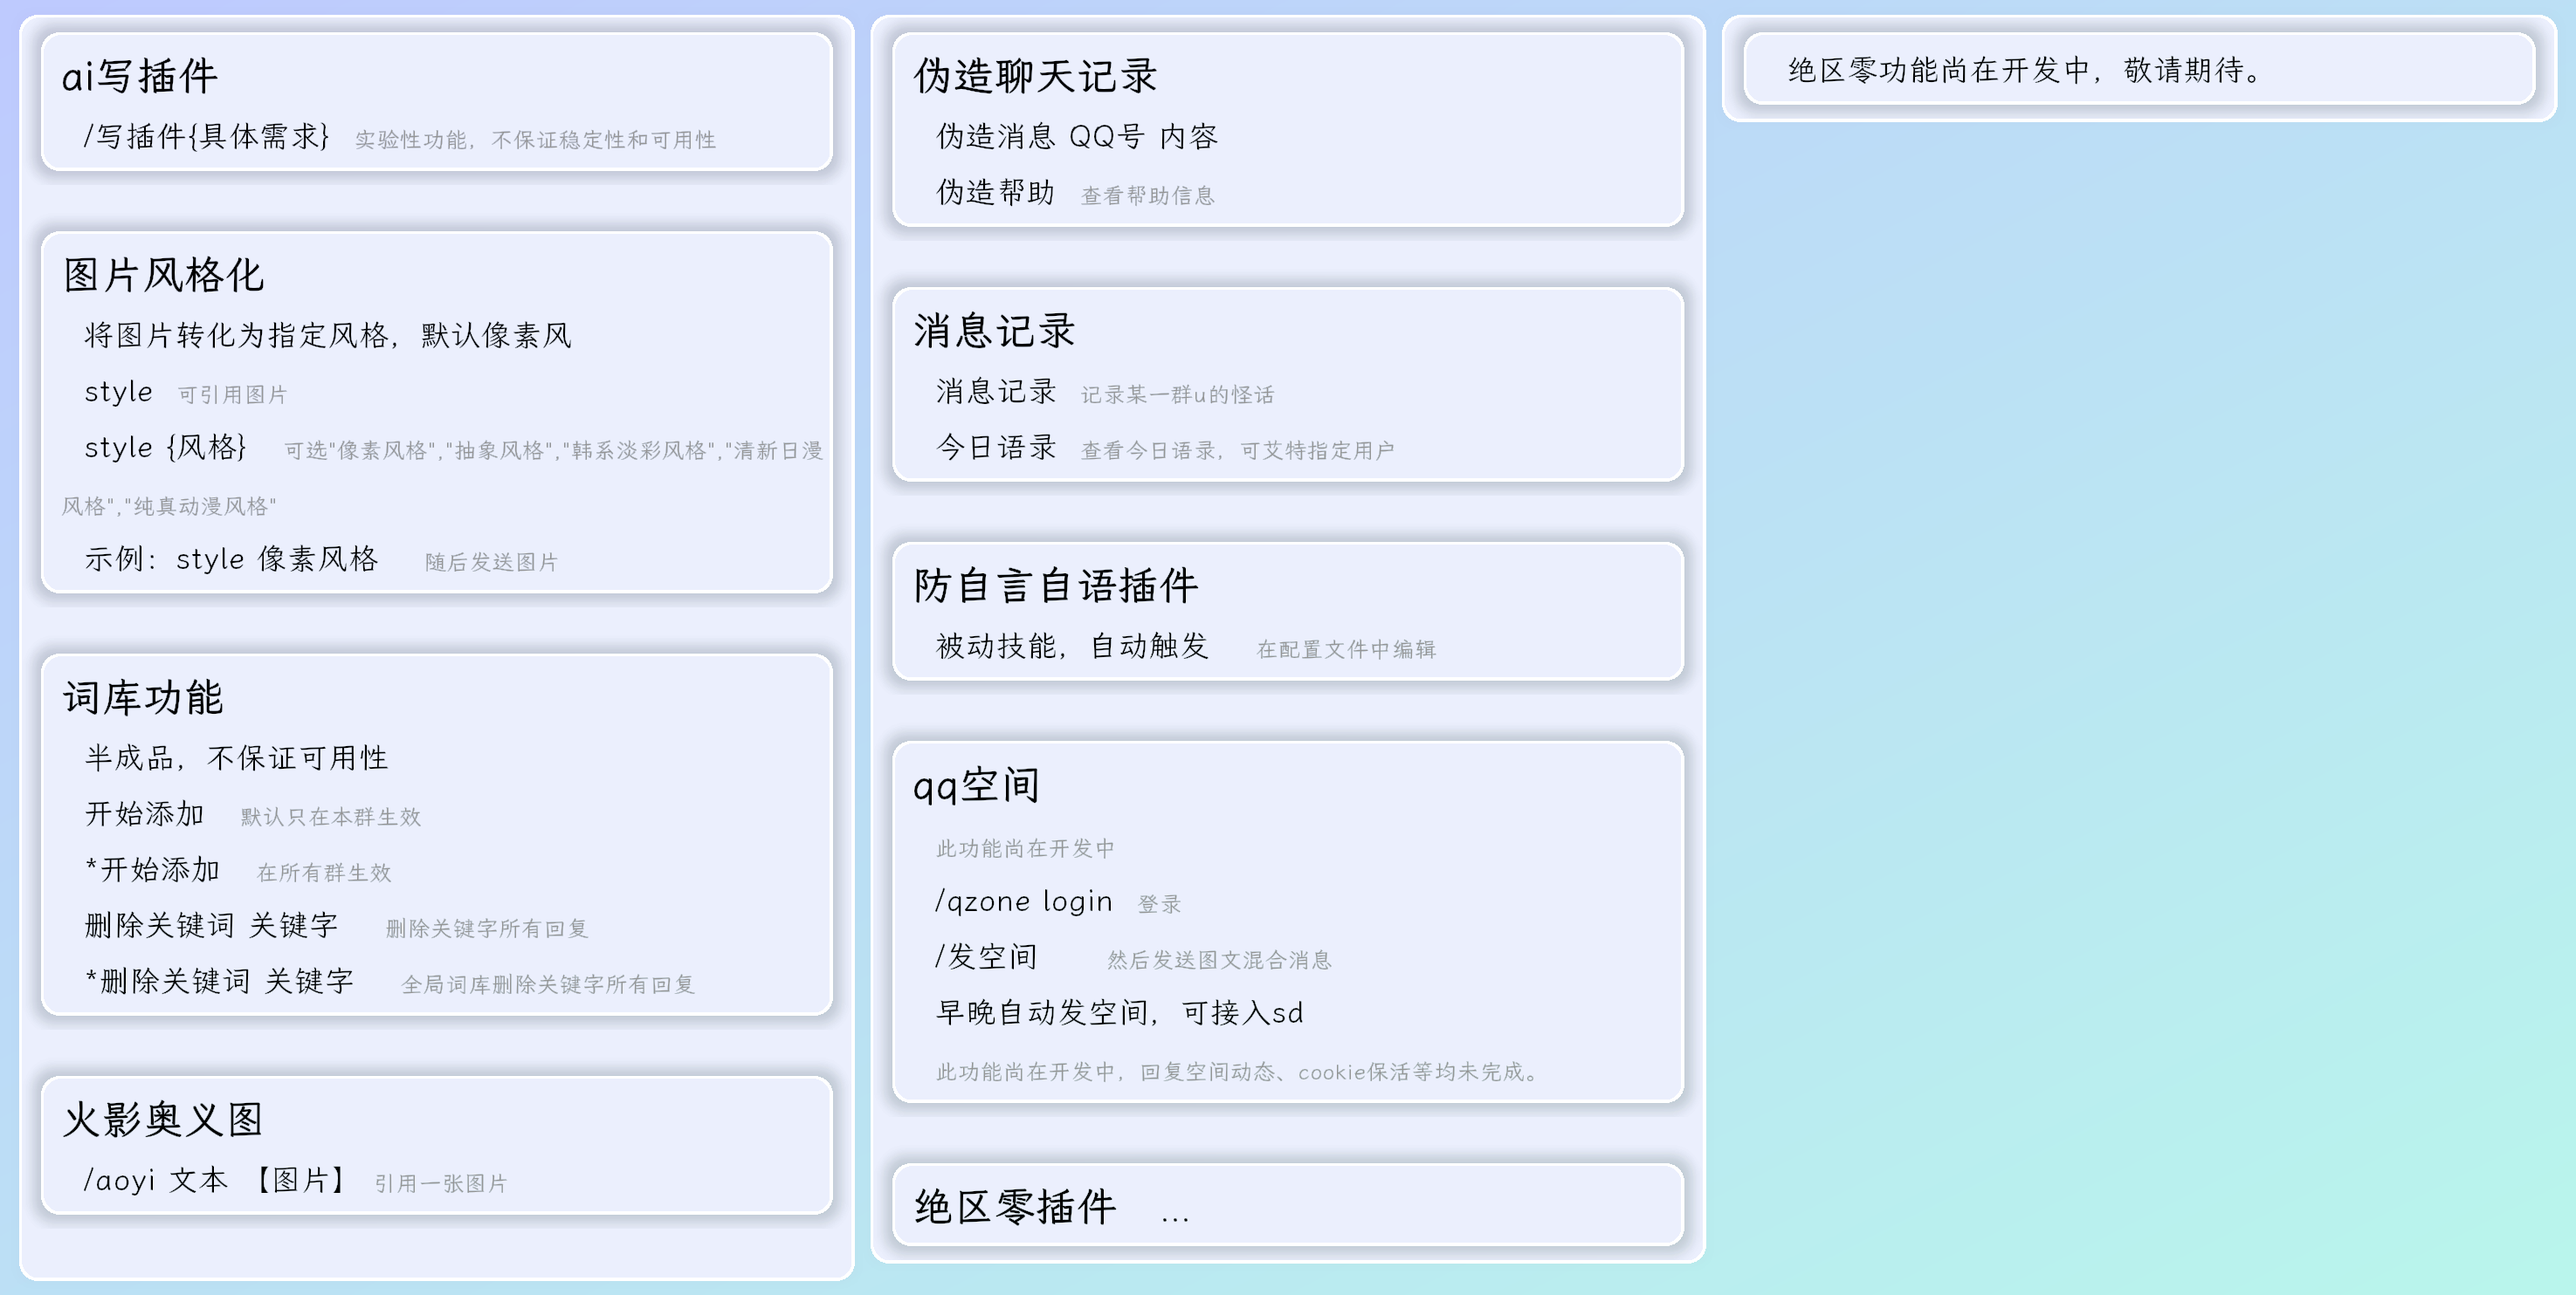
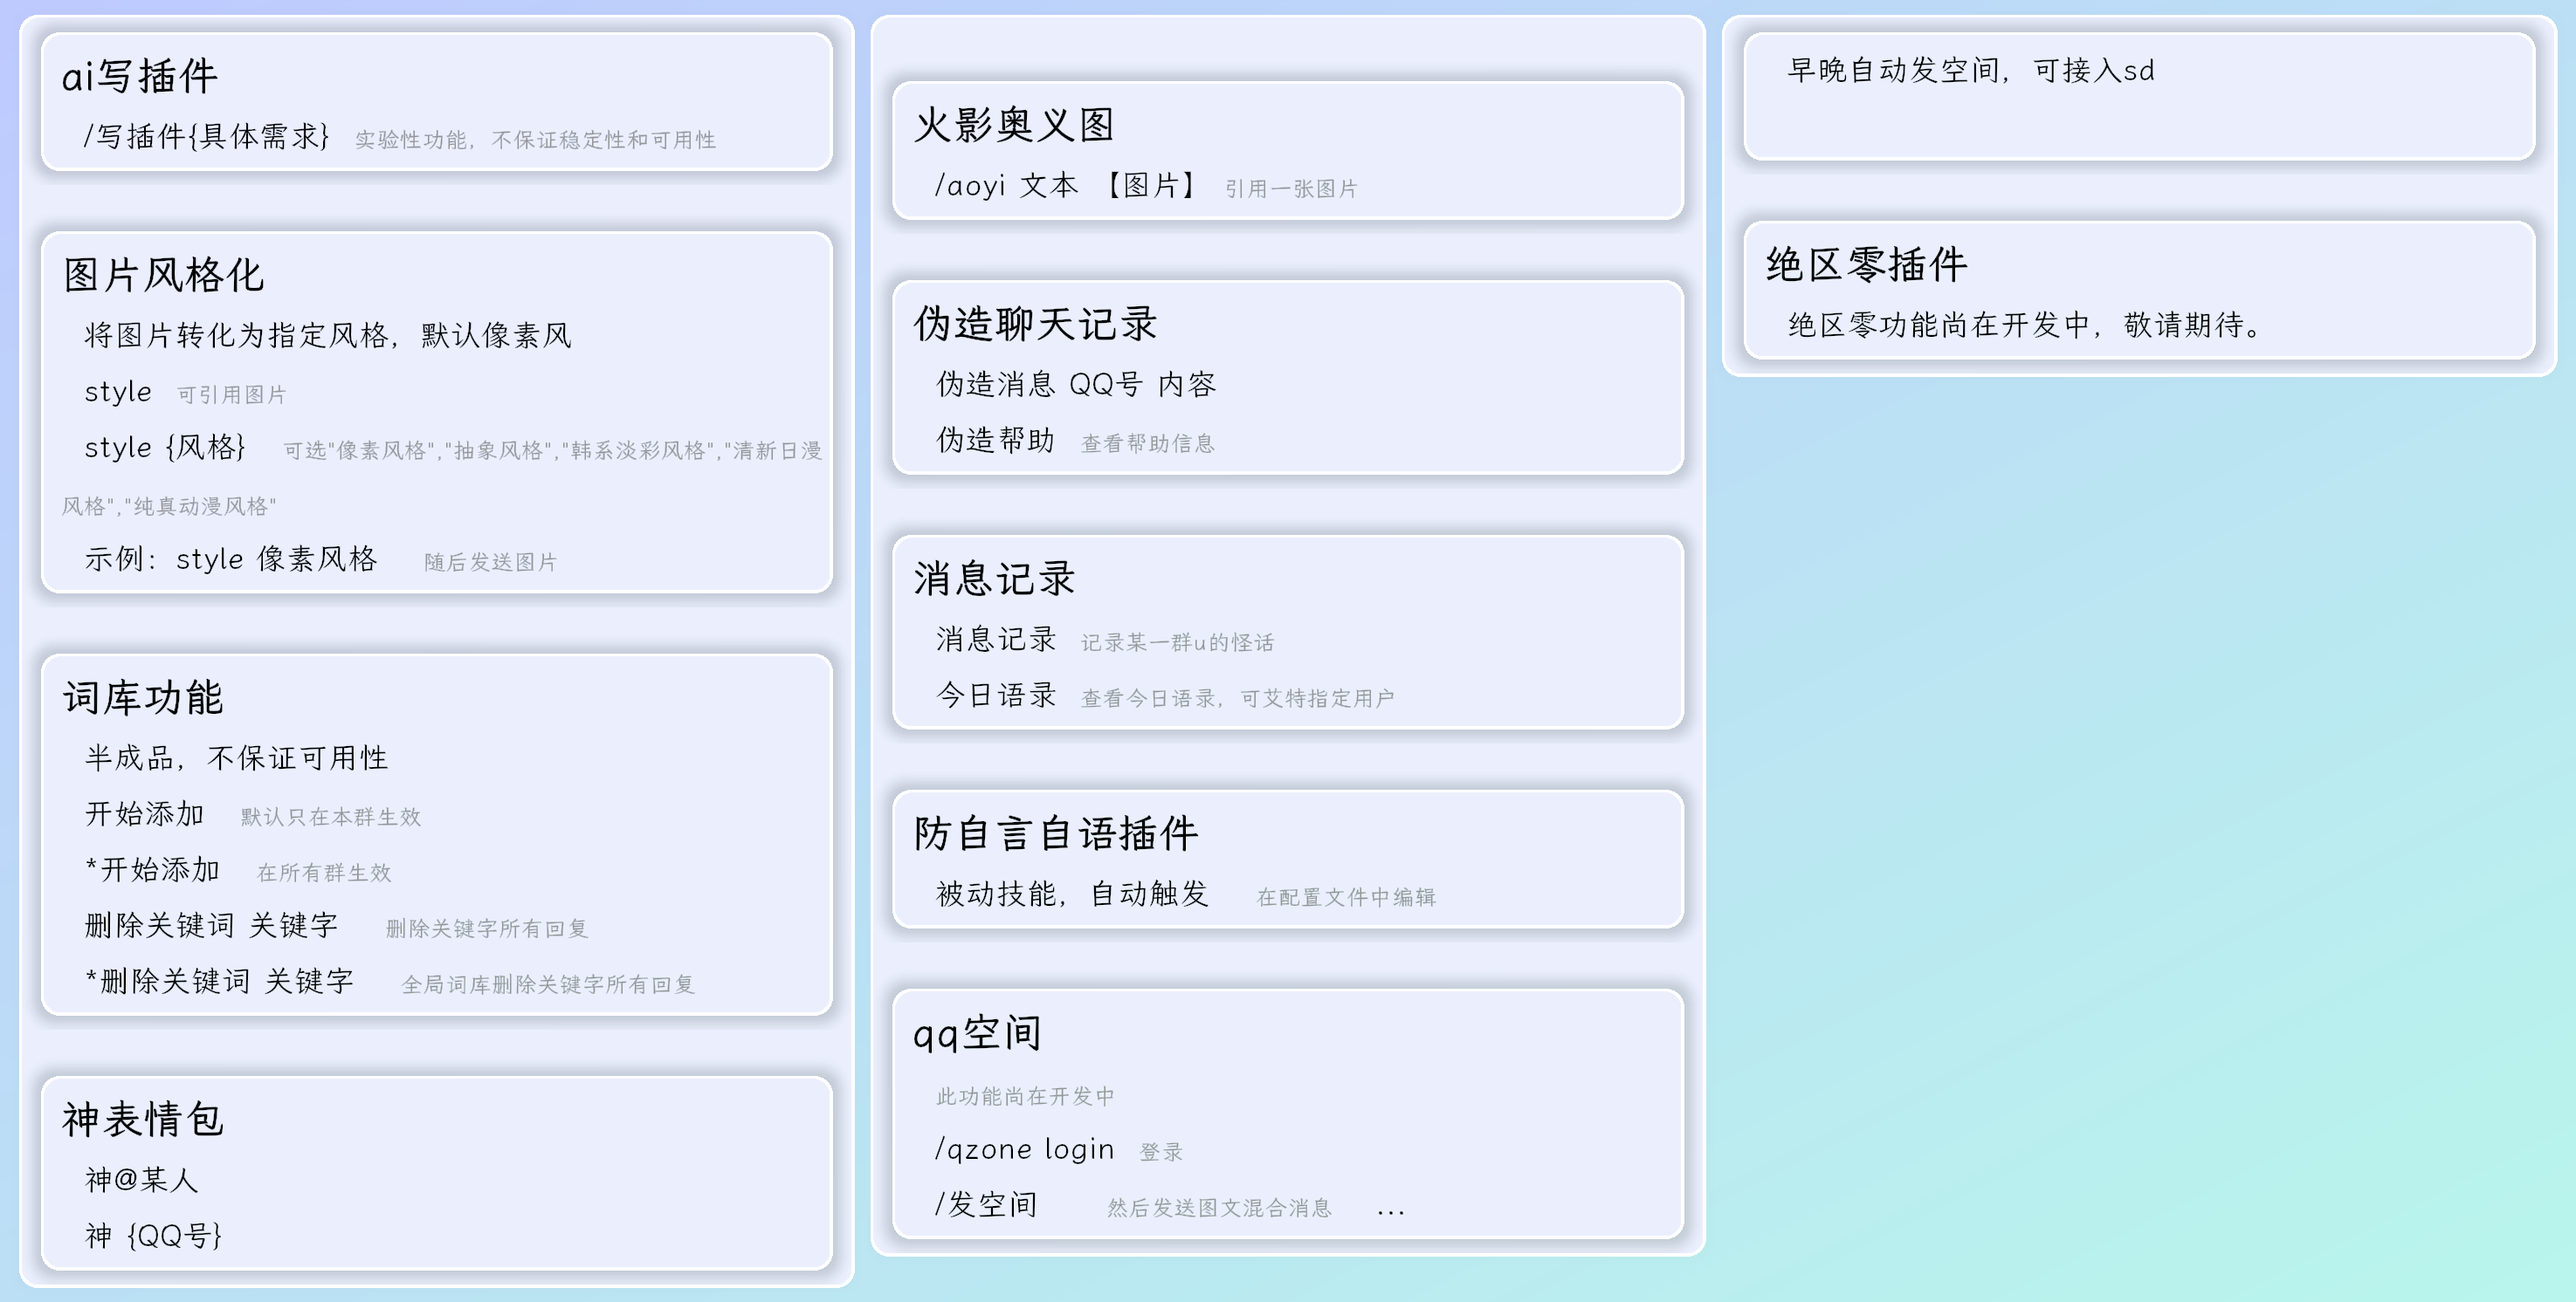
新增神插件,更新菜单图片

diff --git a/run/god_meme_generator/god_meme_generator.py b/run/god_meme_generator/god_meme_generator.py
@@ -1,0 +1,301 @@
+from developTools.event.events import GroupMessageEvent, PrivateMessageEvent
+from framework_common.framework_util.websocket_fix import ExtendBot
+from framework_common.framework_util.yamlLoader import YAMLManager
+from developTools.message.message_components import Text, Image, At
+from framework_common.utils.install_and_import import install_and_import
+from io import BytesIO
+import shlex
+import json
+import asyncio
+from pathlib import Path
+import base64
+import uuid
+
+# --- 使用 install_and_import 导入必要的库 ---
+emoji = install_and_import("emoji", "emoji")
+
+# 修复 pilmoji 需要的 get_emoji_unicode_dict 函数缺失问题
+emoji.unicode_codes.get_emoji_unicode_dict = lambda lang: {
+    data[lang]: emj
+    for emj, data in emoji.EMOJI_DATA.items()
+    if lang in data and data['status'] <= emoji.STATUS['fully_qualified']
+}
+# 修复结束
+
+requests = install_and_import("requests", "requests")
+Pillow_module = install_and_import("Pillow", "PIL")
+pilmoji_module = install_and_import("pilmoji", "pilmoji")
+
+Image_PIL = Pillow_module.Image
+ImageDraw_PIL = Pillow_module.ImageDraw
+ImageFont_PIL = Pillow_module.ImageFont
+Pilmoji = pilmoji_module.Pilmoji
+
+# 加载配置
+try:
+    yaml_manager = YAMLManager(Path(__file__).parent / "config.yaml")
+    config = yaml_manager.load()
+except Exception:
+    config = {}
+
+def auto_newline(emoji: Pilmoji, xy: tuple[int, int], text: str, font: ImageFont_PIL.FreeTypeFont, init_fontsize: int, max_width: int) -> str:
+    width, _ = emoji.getsize(text, font.font_variant(size=init_fontsize))
+    # print(width/max_width)
+    div = int((width/max_width)**(0.5+5/len(text)))
+    # div = 2
+    if div==0:
+        emoji.text((xy[0]+(max_width-width)//2, xy[1]), text, 'black', font.font_variant(size=init_fontsize), align='center', emoji_position_offset=(0, round(30/145*init_fontsize)))
+        return
+    ffont = font.font_variant(size=init_fontsize//int(div))
+    step = len(text) // div + 1
+    lines = [text[i:i+step] for i in range(0, len(text), step)]
+    final = '\n'.join(lines)
+    final_size = emoji.getsize(final, ffont)
+    img_text = Image_PIL.new("RGB", (int(final_size[0]), int(final_size[1]+30)), (255, 255, 255))
+    with Pilmoji(img_text) as text_emoji:
+        y = 0
+        for line in lines:
+            dx, dy = text_emoji.getsize(line, ffont)
+            text_emoji.text(((img_text.size[0]-dx)//2, y), line, 'black', ffont, align='center', emoji_position_offset=(0, round(30/145*(init_fontsize//int(div)))))
+            y += dy
+    rate = min(max_width/img_text.size[0], init_fontsize/img_text.size[1])
+    new_size = tuple(map(lambda x: x*rate, img_text.size))
+    emoji.image.paste(img_text.resize(map(int, new_size)), (int(xy[0]+(max_width-new_size[0])//2), int(xy[1]+(init_fontsize-new_size[1])//2)))
+
+def clean_cache(cache_dir: Path, max_age_seconds: int = 3600):
+    """清理指定目录下超过 max_age_seconds 的文件"""
+    try:
+        if not cache_dir.exists():
+            return
+        
+        import time
+        current_time = time.time()
+        
+        for file_path in cache_dir.iterdir():
+            if file_path.is_file():
+                try:
+                    file_age = current_time - file_path.stat().st_mtime
+                    if file_age > max_age_seconds:
+                        file_path.unlink()
+                        # print(f"[god_meme_generator] Cleaned cache file: {file_path}")
+                except Exception as e:
+                    print(f"[god_meme_generator] Error deleting cache file {file_path}: {e}")
+    except Exception as e:
+        print(f"[god_meme_generator] Error cleaning cache: {e}")
+
+async def get_user_nickname(bot: ExtendBot, user_id: str, group_id: int = None) -> str:
+    """获取用户昵称，优先获取群名片"""
+    try:
+        if group_id:
+            try:
+                info_wrapper = await bot.get_group_member_info(group_id=int(group_id), user_id=int(user_id))
+                # 处理包装字典 {'data': {...}}
+                if info_wrapper and isinstance(info_wrapper, dict) and 'data' in info_wrapper:
+                    info = info_wrapper['data']
+                    return info.get('card') or info.get('nickname') or str(user_id)
+            except Exception:
+                # 如果获取群成员信息失败（可能不在群里），尝试获取陌生人信息
+                pass
+        
+        info_wrapper = await bot.get_stranger_info(user_id=int(user_id))
+        if info_wrapper and isinstance(info_wrapper, dict) and 'data' in info_wrapper:
+             info = info_wrapper['data']
+             return info.get('nickname') or str(user_id)
+        elif isinstance(info_wrapper, dict):
+             return info_wrapper.get('nickname') or str(user_id)
+             
+        return str(user_id)
+    except Exception as e:
+        print(f"Error fetching nickname for {user_id}: {e}")
+        return str(user_id)
+
+def generate_meme_image(qqId, name, comment, call, appel):
+    try:
+        resp = requests.get(f'http://q.qlogo.cn/headimg_dl?dst_uin={qqId}&spec=640&img_type=jpg')
+        resp.raise_for_status()
+        io = BytesIO(resp.content)
+        img = Image_PIL.open(io)
+    except Exception as e:
+        print(f"Error downloading avatar: {e}")
+        return None
+    
+    meme = Image_PIL.new("RGB", (1024, 1024), (255, 255, 255))
+    
+    #使用漫朔的字体
+    default_font_bd = Path("framework_common/manshuo_draw/data/fort/LXGWWenKai-Bold.ttf")
+    default_font = Path("framework_common/manshuo_draw/data/fort/LXGWWenKai-Regular.ttf")
+    
+    font_path_bd = config.get('font_msyhbd_path', str(default_font_bd))
+    font_path = config.get('font_msyh_path', str(default_font))
+    
+    def get_valid_font_path(path_str):
+        # 1. 检查绝对路径或相对于当前工作目录的路径是否存在
+        p = Path(path_str)
+        if p.exists(): return str(p)
+        
+        # 2. 检查相对于插件目录的路径
+        plugin_dir = Path(__file__).parent
+        p_local = plugin_dir / path_str
+        if p_local.exists(): return str(p_local)
+        
+        # 3. 如果配置的字体失败，回退到系统字体
+        if "msyh" in path_str.lower():
+             return r'C:\Windows\Fonts\MSYH.TTC'
+             
+        return path_str
+
+    try:
+        # 获取实际存在的字体路径
+        real_font_bd = get_valid_font_path(font_path_bd)
+        real_font = get_valid_font_path(font_path)
+        
+        # 尝试加载，指定 index=0 以防万一
+        # 注意：在 Linux 上，PIL 可能需要绝对路径
+        fontDB = ImageFont_PIL.truetype(str(Path(real_font_bd).resolve()), size=10, index=0)
+        font = ImageFont_PIL.truetype(str(Path(real_font).resolve()), size=10, index=0)
+    except Exception as e:
+        import os
+        plugin_dir = Path(__file__).parent
+        files = os.listdir(plugin_dir)
+        error_msg = f"字体加载失败: {str(e)}\n尝试路径: {real_font_bd}, {real_font}\n目录文件: {files}"
+        print(error_msg)
+        raise Exception(error_msg)
+
+    with Pilmoji(meme) as emoji:
+        auto_newline(emoji, (10, 10), f'请问你见到 {name} 了吗', fontDB, 145, 1004)
+        meme.paste(img.resize((690, 690)), (167, 160))
+        auto_newline(emoji, (10, 854), f'非常{comment}！简直就是{call}!', fontDB, 110, 1004)
+        auto_newline(emoji, (0, 964), f'{appel}也没失踪也没怎么样，我只是觉得你们都该看一下', font, 60, 1024)
+    
+    io = BytesIO()
+    meme.save(io, 'jpeg')
+    io.seek(0)
+    return io
+
+async def message_handler(bot: ExtendBot, event: GroupMessageEvent | PrivateMessageEvent):
+    # 手动从消息链构建文本，因为 pure_text 可能为空或不可靠
+    full_text = ""
+    try:
+        msg_chain = getattr(event, 'message_chain', getattr(event, 'message', []))
+        for seg in msg_chain:
+            if isinstance(seg, Text):
+                full_text += seg.text
+            elif isinstance(seg, dict) and seg.get('type') == 'text':
+                full_text += seg.get('data', {}).get('text', '')
+            elif hasattr(seg, 'text') and seg.text: # 鸭子类型
+                full_text += str(seg.text)
+    except Exception:
+        pass
+    
+    full_text = full_text.strip()
+    # 如果构建失败，回退到 pure_text
+    if not full_text:
+         full_text = getattr(event, 'pure_text', '').strip()
+
+    # 检查前缀
+    if not full_text.startswith("神"):
+        return
+
+    # 移除 "神"
+    content = full_text[1:].strip()
+    
+    qqId = None
+    name = None
+    
+    # 尝试从 message_chain 或 message 获取消息段
+    segments = getattr(event, 'message_chain', getattr(event, 'message', []))
+    
+    # 1. 检查组件中的 At
+    for seg in segments:
+        # 检查是否为 At 对象
+        if isinstance(seg, At):
+            qqId = str(seg.qq)
+            break
+        # 检查是否为表示 At 的字典（回退）
+        elif isinstance(seg, dict) and seg.get('type') == 'at':
+            qqId = str(seg.get('data', {}).get('qq', ''))
+            break
+        # 检查是否为具有 'qq' 属性的对象（鸭子类型）
+        elif hasattr(seg, 'qq'):
+             qqId = str(seg.qq)
+             break
+        # 检查 target 属性（旧样式）
+        elif hasattr(seg, 'target'):
+             qqId = str(seg.target)
+             break
+
+    # 2. 如果没有找到 At，检查内容是否为数字或为空（自己）
+
+    # 2. 如果没有找到 At，检查内容是否为数字或为空（自己）
+    if not qqId:
+        # 移除文本中潜在的 @ 前缀（处理 "神 @123456" 文本情况）
+        clean_content = content.replace('@', '').strip()
+        parts = clean_content.split()
+        
+        if parts and parts[0].isdigit():
+            qqId = parts[0]
+        # elif not clean_content:
+        #     # 情况： "神"（无参数） -> 自己
+        #     qqId = str(event.sender.id)
+        #     # 对于自己，尝试直接使用发送者信息
+        #     if hasattr(event.sender, 'card') and event.sender.card:
+        #         name = event.sender.card
+        #     elif hasattr(event.sender, 'nickname') and event.sender.nickname:
+        #         name = event.sender.nickname
+        
+        # 回退：如果错过了 At 段，尝试从原始消息中提取 QQ
+        # 某些实现可能会将 At 信息放在 raw_message 或类似位置
+        if not qqId:
+            import re
+            # 查找 [CQ:at,qq=123456] 模式
+            cq_at = re.search(r'\[CQ:at,qq=(\d+)\]', event.pure_text) # pure_text 可能包含 CQ 码？
+            if cq_at:
+                qqId = cq_at.group(1)
+            
+            # 或者在原始文本中查找简单的 @123456 模式
+            at_pattern = re.search(r'@(\d+)', text)
+            if at_pattern:
+                qqId = at_pattern.group(1)
+
+    if not qqId:
+        return
+
+    # 如果未设置或只有 ID，则获取昵称
+    if not name:
+        group_id = getattr(event, 'group_id', None)
+        name = await get_user_nickname(bot, qqId, group_id)
+
+    # 其他参数的默认值
+    comment = '牛逼'
+    call = '神'
+    appel = '他'
+
+    try:
+        loop = asyncio.get_running_loop()
+        img_io = await loop.run_in_executor(None, generate_meme_image, qqId, name, comment, call, appel)
+        if img_io:
+            # 保存到文件，因为 Image 组件需要 'file' 字段
+            save_dir = Path("data/pictures/god_meme_generator")
+            save_dir.mkdir(parents=True, exist_ok=True)
+            
+            # 保存新文件前清理缓存（保留文件 1 小时）
+            clean_cache(save_dir, max_age_seconds=3600)
+            
+            file_path = save_dir / f"{uuid.uuid4()}.jpg"
+            with open(file_path, "wb") as f:
+                f.write(img_io.getvalue())
+            
+            await bot.send(event, [Image(file=str(file_path))])
+        else:
+            await bot.send(event, [Text("生成失败，无法获取头像。")])
+    except Exception as e:
+        await bot.send(event, [Text(f"生成出错: {str(e)}")])
+
+def register_handlers(bot: ExtendBot, conf: YAMLManager):
+    @bot.on(GroupMessageEvent)
+    async def handle_group_message(event: GroupMessageEvent):
+        await message_handler(bot, event)
+
+    @bot.on(PrivateMessageEvent)
+    async def handle_private_message(event: PrivateMessageEvent):
+        await message_handler(bot, event)

diff --git a/run/god_meme_generator/__init__.py b/run/god_meme_generator/__init__.py
@@ -1,0 +1,8 @@
+from .god_meme_generator import register_handlers
+
+plugin_description = "一个表情包生成插件。用户可以通过命令指定QQ号、名称、评论等参数，生成一个带有QQ头像和自定义文本的“神之表情包”。"
+
+def main(bot, conf):
+    register_handlers(bot, conf)
+
+entrance_func = main
